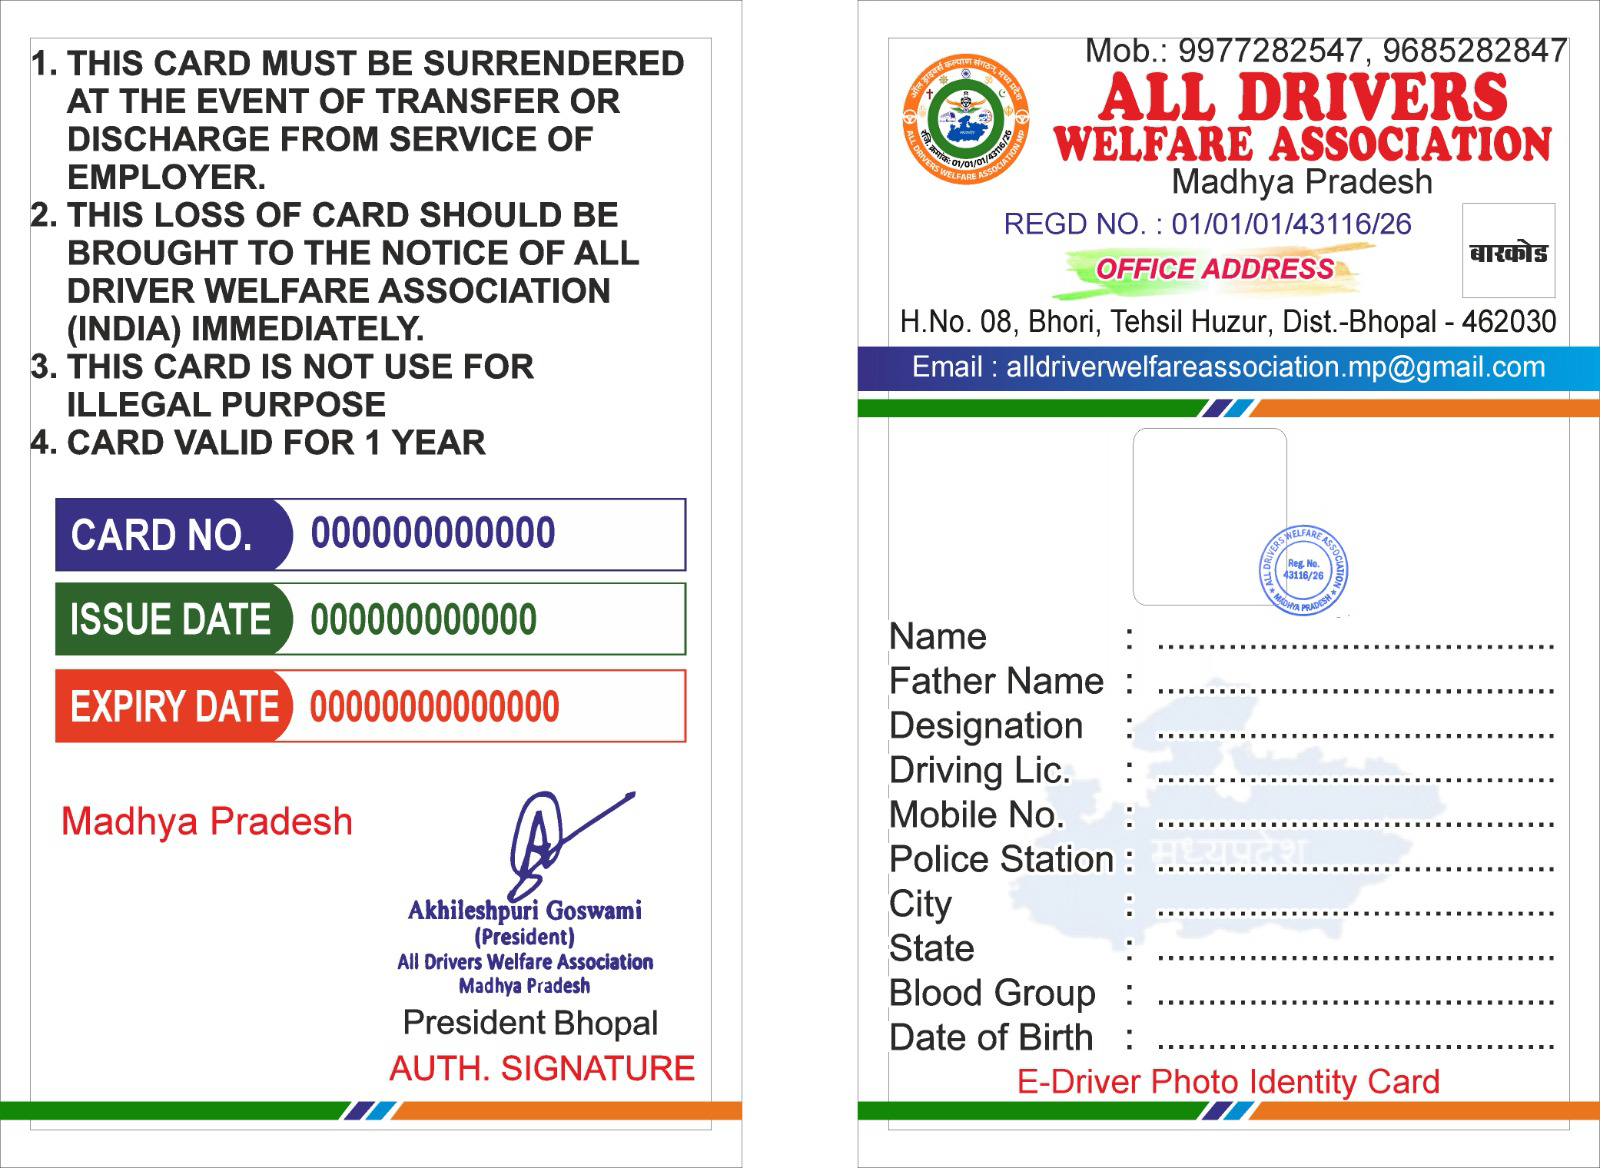
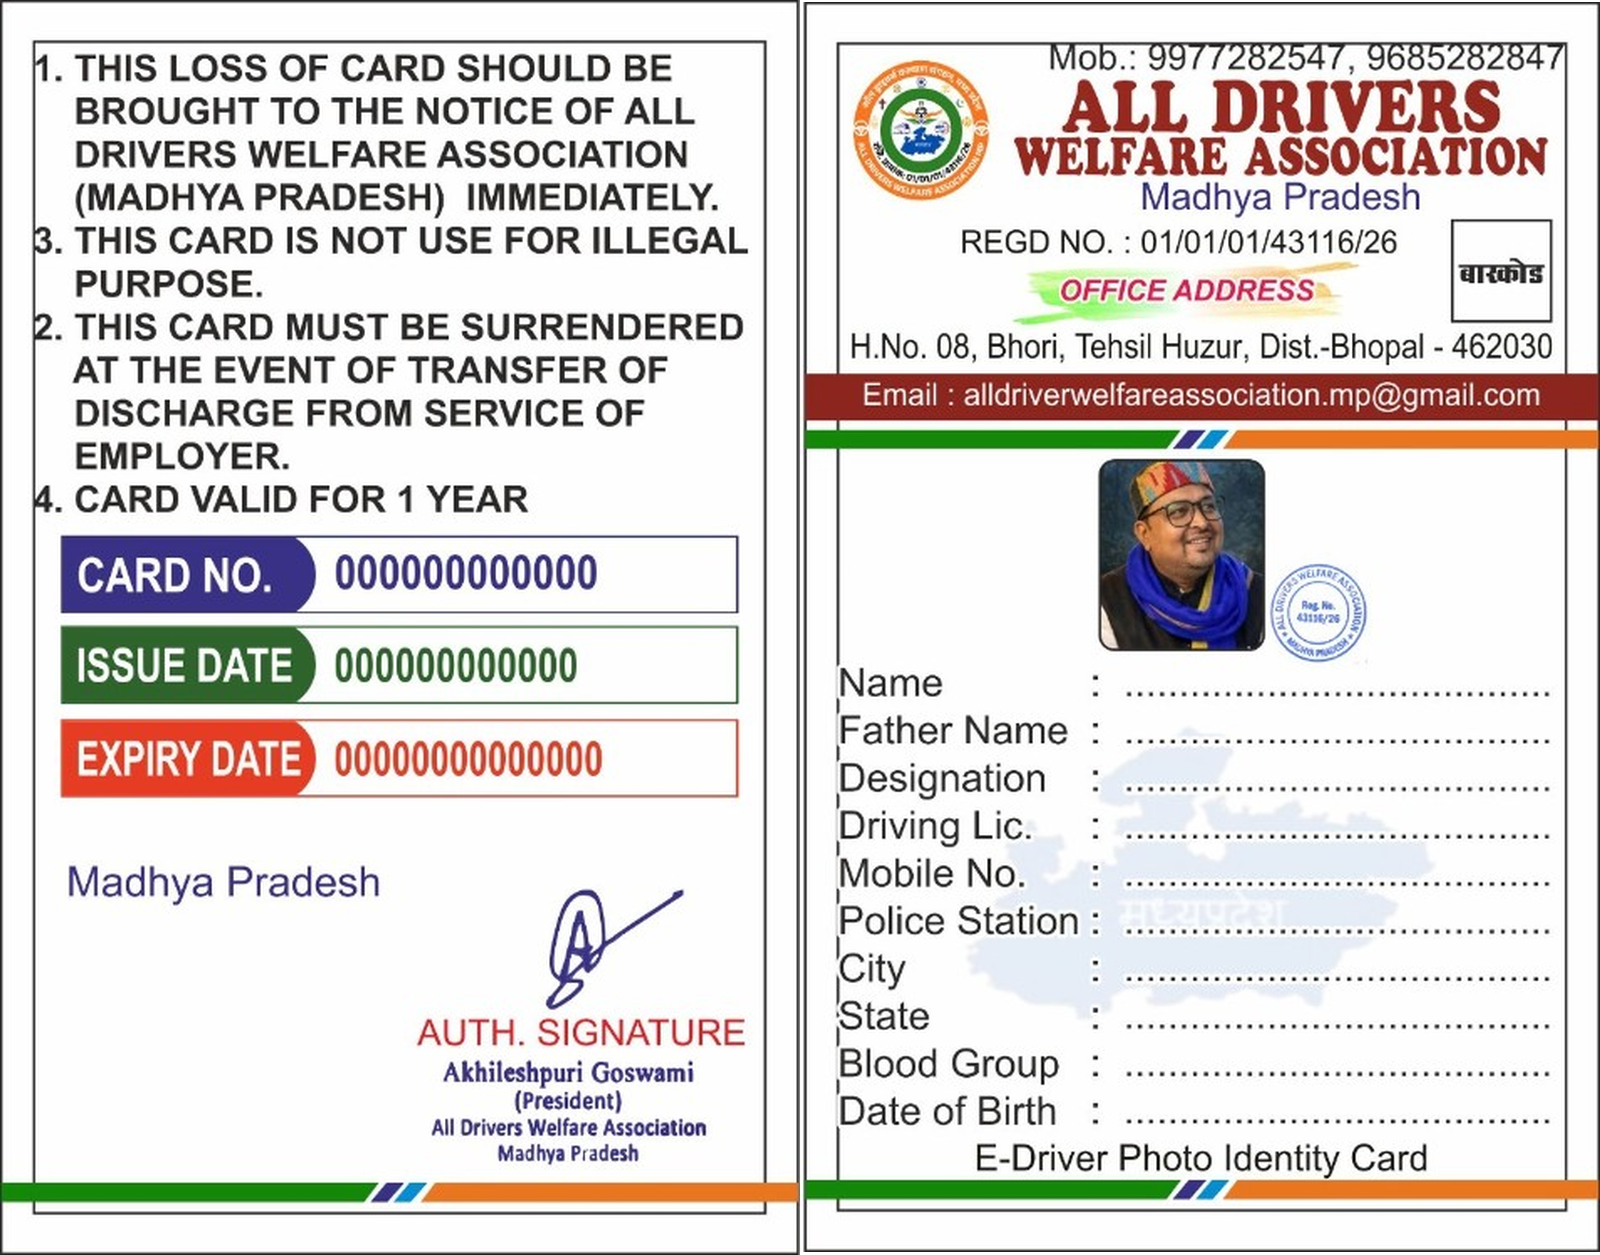
fix: update ID card dimensions and layout adjustments for improved rendering
- Increased canvas height in cardGeometry.ts to 1255px.
- Adjusted photo positioning and dimensions for better alignment.
- Updated value text positions and font sizes in IDCardOverlay.tsx for accurate display.
- Enhanced QR code rendering and layout for clarity on ID card.

Changed region(s): [[0.0, 0.0, 1.0, 1.0]]

diff --git a/src/features/id-card/IDCardOverlay.tsx b/src/features/id-card/IDCardOverlay.tsx
@@ -1,7 +1,7 @@
 /**
  * IDCardOverlay — Canvas-based renderer.
  *
- * The template is a 1600×1168px landscape print image (see cardGeometry.ts):
+ * The template is a 1600×1255px landscape print image (see cardGeometry.ts):
  *   Left  half (x 0–800)   = Back face
  *   Right half (x 800–1600) = Front face
  *
@@ -88,55 +88,54 @@ const FRONT = {
     h: CARD_GEOMETRY.photo.height,
   },
 
-  valueX: 375,  // x where value text starts (right of the dotted colon line)
+  // After the dotted colon on each label row (calibrated on id_card.png)
+  valueX: 335,
 
   rows: [
-    { key: 'fullName',      y: 640 },
-    { key: 'fatherName',    y: 681 },
-    { key: 'designation',   y: 725 },
-    { key: 'licenseNumber', y: 770 },
-    { key: 'mobileNumber',  y: 815 },
-    { key: 'policeStation', y: 860 },
-    { key: 'city',          y: 901 },
-    { key: 'state',         y: 950 },
-    { key: 'bloodGroup',    y: 995 },
-    { key: 'dateOfBirth',   y: 1040 },
+    { key: 'fullName',      y: 684 },
+    { key: 'fatherName',    y: 732 },
+    { key: 'designation',   y: 779 },
+    { key: 'licenseNumber', y: 827 },
+    { key: 'mobileNumber',  y: 874 },
+    { key: 'policeStation', y: 922 },
+    { key: 'city',          y: 969 },
+    { key: 'state',         y: 1017 },
+    { key: 'bloodGroup',    y: 1064 },
+    { key: 'dateOfBirth',   y: 1112 },
   ] as { key: keyof IdCardFormValues; y: number }[],
 
-  fontSize: 30,
+  // Optional QR / barcode slot (header "बारकोड" box)
+  qr: { x: 652, y: 220, w: 99, h: 102 },
+
+  fontSize: 22,
   fontFamily: 'Roboto, sans-serif',
-  valueColor: '#111827',
+  valueColor: '#141414',
 }
 
 // ─── Back face coordinates (face-local space) ────────────────────────────────
-// NOTE: The backend renderer uses a different source template (Simran-front.png),
-// so backend layout.py erase coordinates do NOT apply here.  These erase boxes
-// are calibrated for id_card.png used by the frontend canvas.
-//
-// Each erase box intentionally spans from the start of the value area all the
-// way to the right edge of the face so it covers every placeholder digit in
-// the template regardless of how many there are (card-no has 12, expiry has 13).
+// Value boxes only — do not cover the colored CARD NO / ISSUE / EXPIRY labels.
 const BACK = {
+  // Wipe the value-box interior only (after the colored pill tip → before the
+  // right border) so every template zero disappears without clipping the label.
   rows: [
     {
-      // erase covers the full value area so no template zeros bleed through
-      erase:  { x: 290, y: 513, w: 510, h: 44 },
-      textX:  300, textY: 545, color: '#393186',
+      erase: { x: 322, y: 548, w: 370, h: 52 },
+      textX: 330, textY: 574, color: '#113478',
       key: 'cardNumber' as const,
     },
     {
-      erase:  { x: 290, y: 599, w: 510, h: 44 },
-      textX:  300, textY: 631, color: '#2C642E',
+      erase: { x: 322, y: 635, w: 370, h: 58 },
+      textX: 330, textY: 664, color: '#005C33',
       key: 'issueDate' as const,
     },
     {
-      erase:  { x: 290, y: 683, w: 510, h: 44 },
-      textX:  300, textY: 715, color: '#E63C23',
+      erase: { x: 322, y: 728, w: 370, h: 58 },
+      textX: 330, textY: 757, color: '#B41E1E',
       key: 'expiryDate' as const,
     },
   ],
 
-  fontSize: 30,
+  fontSize: 26,
   fontFamily: 'Roboto, sans-serif',
 }
 
@@ -169,12 +168,13 @@ async function drawFront(
     } catch { /* photo load failed — show template placeholder */ }
   }
 
-  // Values only — template already has labels + dotted lines printed
+  // Values only — no white backing on the front; text sits on the dotted lines
   ctx.font = `700 ${FRONT.fontSize}px ${FRONT.fontFamily}`
   ctx.fillStyle = FRONT.valueColor
   ctx.textAlign = 'left'
+  ctx.textBaseline = 'middle'
 
-  const maxW = FACE_W - FRONT.valueX - 20
+  const maxW = FACE_W - FRONT.valueX - 40
   for (const row of FRONT.rows) {
     const raw = String(form[row.key] || '')
     if (!raw) continue
@@ -188,11 +188,14 @@ async function drawFront(
     ctx.fillText(display, FRONT.valueX, row.y)
   }
 
-  // QR code (optional — bottom right corner)
+  // QR code in the header barcode slot
   if (qrUrl) {
     try {
       const qr = await loadUrl(qrUrl)
-      ctx.drawImage(qr, 665, 205, 88, 88)
+      const { x, y, w, h } = FRONT.qr
+      ctx.fillStyle = '#FFFFFF'
+      ctx.fillRect(x, y, w, h)
+      ctx.drawImage(qr, x, y, w, h)
     } catch { /* ignore */ }
   }
 }
@@ -219,6 +222,7 @@ async function drawBack(canvas: HTMLCanvasElement, card: DriverCard | null | und
 
   ctx.font = `700 ${BACK.fontSize}px ${BACK.fontFamily}`
   ctx.textAlign = 'left'
+  ctx.textBaseline = 'middle'
 
   const values: Record<string, string> = {
     cardNumber: card?.cardNumber ?? '',
@@ -228,12 +232,13 @@ async function drawBack(canvas: HTMLCanvasElement, card: DriverCard | null | und
 
   for (const row of BACK.rows) {
     const { erase, textX, textY, color, key } = row
-    // Fill the full erase area with white so all template placeholder digits are covered
+    const text = values[key]
+    if (!text) continue
+    // Wipe the whole value box so no template zeros bleed through
     ctx.fillStyle = '#FFFFFF'
     ctx.fillRect(erase.x, erase.y, erase.w, erase.h)
-    // Draw the value text
     ctx.fillStyle = color
-    ctx.fillText(values[key], textX, textY)
+    ctx.fillText(text, textX, textY)
   }
 }
 
@@ -344,8 +349,9 @@ export function IDCardOverlay({ values, card, photoUrl, qrUrl, loading = false, 
   const drawFrontCb = useCallback(
     (canvas: HTMLCanvasElement) => drawFront(canvas, values, photoUrl, qrUrl),
     // eslint-disable-next-line react-hooks/exhaustive-deps
-    [values.fullName, values.designation, values.mobileNumber, values.policeStation,
-     values.city, values.state, values.bloodGroup, values.dateOfBirth, photoUrl, qrUrl],
+    [values.fullName, values.fatherName, values.designation, values.licenseNumber,
+     values.mobileNumber, values.policeStation, values.city, values.state,
+     values.bloodGroup, values.dateOfBirth, photoUrl, qrUrl],
   )
 
   const drawBackCb = useCallback(

diff --git a/src/features/id-card/cardGeometry.ts b/src/features/id-card/cardGeometry.ts
@@ -5,13 +5,13 @@
 export const CARD_GEOMETRY = {
   "canvas": {
     "width": 1600,
-    "height": 1168
+    "height": 1255
   },
   "faceWidth": 800,
   "photo": {
-    "x": 1135,
-    "y": 430,
-    "width": 150,
-    "height": 174
+    "x": 1099,
+    "y": 429,
+    "width": 166,
+    "height": 222
   }
 } as const
